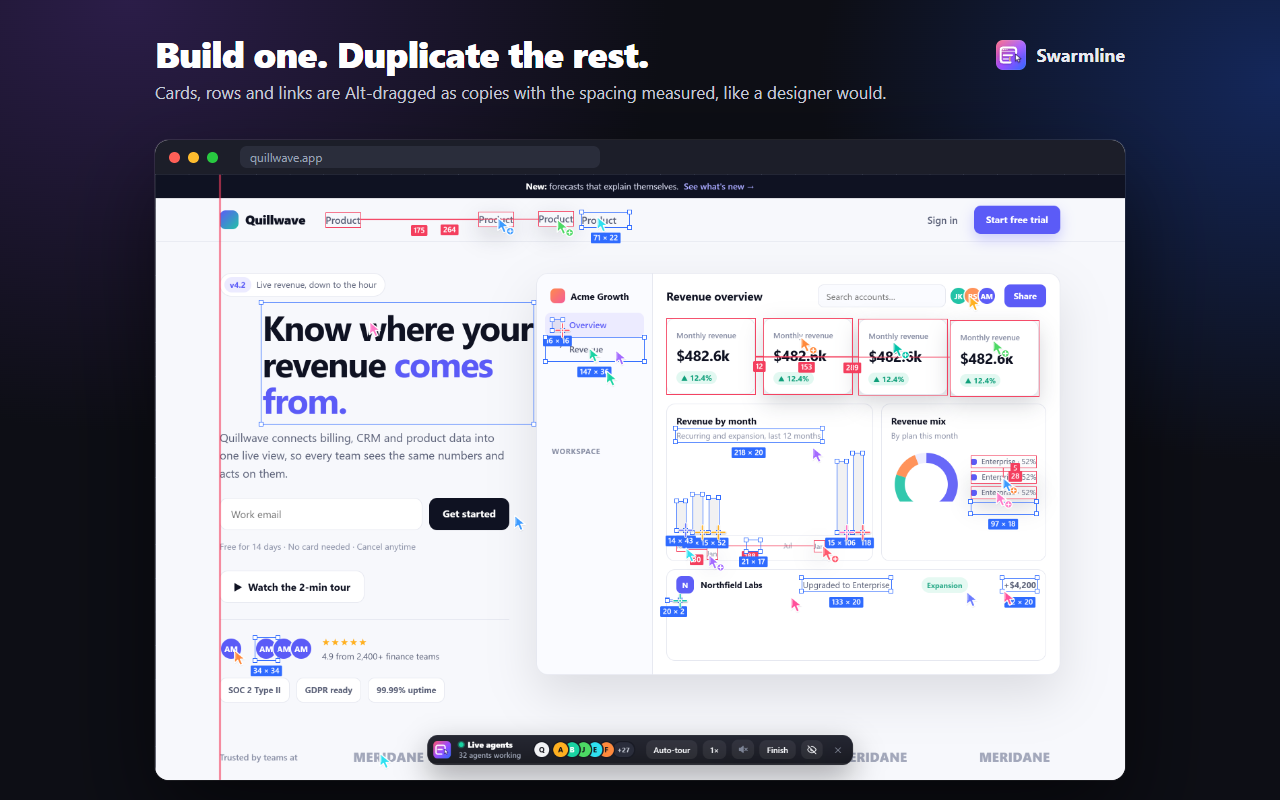
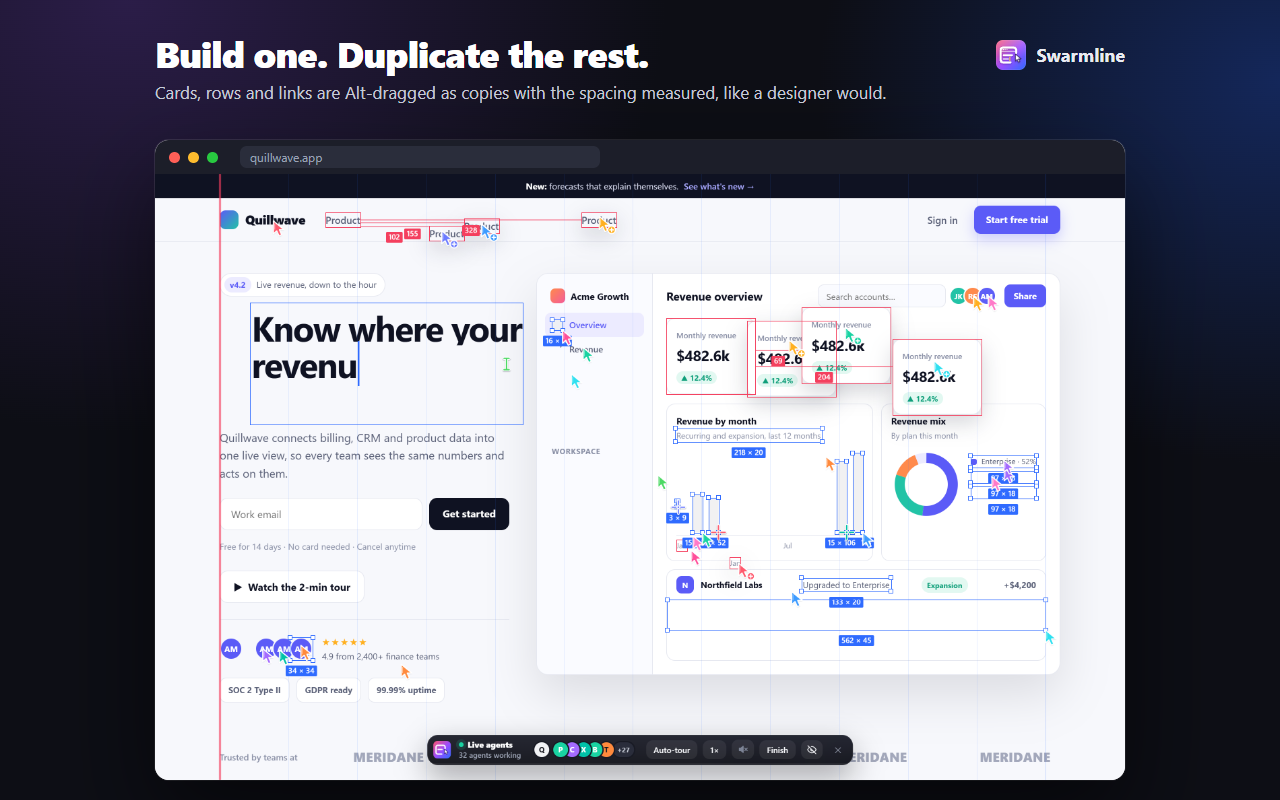
Detailing: letter-by-letter typing, layout grid, image placeholders, calmer pace
Compared side by side with Swarm Rebuild on cenovabuild.com:
- Typing runs on its own steady clock and is slower for large type, so every
  letter of a headline is seen (it was ~0.16 s for "Build Better.").
- Display headlines are typed at full size; only some mid-size headings grow.
- Loose text is duplicated only as short items in a row (nav links); headings,
  sentences and stacked lines are typed instead of copied.
- A faint 12-column layout grid over the content of the screen being built.
- Image frames show a placeholder with a picture icon (see-through when large).
- A lower tempo and fewer agents at once per screen (cenovabuild 64 s -> 86 s).

diff --git a/extension/swarmline.js b/extension/swarmline.js
@@ -1316,8 +1316,10 @@ canvas.off{pointer-events:none}
         for (const c of P.children) {
           const us = unitsIn.get(c);
           if (!us || !us.length || this.roleOf.has(c)) continue;
-          // a single long paragraph reads better typed than duplicated
-          if (us.length === 1 && us[0].kind === "text" && c.textContent.trim().length > 40) continue;
+          // a lone line of text is typed, not duplicated, unless it's a short item in a row
+          // (nav links, tags): headings, sentences and stacked lines are typed letter by letter
+          const lone = us.length === 1 && us[0].kind === "text";
+          if (lone && (c.textContent.trim().length > 24 || (us[0].fs || 16) >= 22)) continue;
           const r = c.getBoundingClientRect();
           if (r.width < 14 || r.height < 12 || r.height > v.h * 0.8 || r.width > v.w * 0.96) continue;
           if (getComputedStyle(c).translate !== "none") continue;
@@ -1336,13 +1338,15 @@ canvas.off{pointer-events:none}
           if (!g) {
             if (found.length < 2) continue;
             const m = found[0];
-            g = { master: m.c, masterUnits: m.us, mw: m.r.width, mh: m.r.height, copies: [], loose: m.loose };
+            if (m.loose && !found.slice(1).some((k) => Math.abs(k.r.top - m.r.top) < 6)) continue; // a column of lines: typed
+            g = { master: m.c, masterUnits: m.us, mw: m.r.width, mh: m.r.height, mTop: m.r.top, copies: [], loose: m.loose };
             known.set(sig, g);
             this.roleOf.set(m.c, "master");
             rest = found.slice(1);
           }
           for (const k of rest) {
             if (ratio(k.r.height, g.mh) >= 1.8 || (!g.loose && ratio(k.r.width, g.mw) >= 1.6)) continue;
+            if (g.loose && Math.abs(k.r.top - g.mTop) > 6) continue;
             if (k.us.some((u) => u.state !== 0)) continue;
             this.makeDup(g, k, v, top);
           }
@@ -1834,6 +1838,7 @@ canvas.off{pointer-events:none}
       }
 
       this.stepReveals(dt);
+      this.stepGrid(dt, top, v);
       if (this.jump) {
         const J = this.jump;
         J.t += dt;
@@ -1867,7 +1872,7 @@ canvas.off{pointer-events:none}
         if (y + w.h > v.y) avail++;
       }
       this.avail = avail;
-      const slots = Math.min(this.nibs.length, 8 + Math.floor(avail / 2) + Math.floor(this.speedPx / 40));
+      const slots = Math.min(this.nibs.length, 5 + Math.floor(avail / 4) + Math.floor(this.speedPx / 40));
       let busy = 0;
       for (const u of this.active) if (!(u.kind === "box" && u.phase >= 1)) busy++;
       let started = 0;
@@ -1928,7 +1933,9 @@ canvas.off{pointer-events:none}
           if (u.kind === "text") {
             u.edit = !!u.inCopy && !!u.inCopy.src && !u.dupSame; // only a real copy is edited
             u.jx = rand(-5, 5);
-            u.grow = !u.edit && u.mode !== "fade" && u.fs >= 28 && u.h < 400;
+            // big display type is typed at full size, letter by letter; now and then a mid-size
+            // heading is typed small and then scaled up into place
+            u.grow = !u.edit && u.mode !== "fade" && u.fs >= 28 && u.fs < 48 && u.h < 400 && Math.random() < 0.3;
           }
           if (u.kind === "dup") {
             const S = u.src.getBoundingClientRect();
@@ -2216,10 +2223,13 @@ canvas.off{pointer-events:none}
         return;
       }
       if (u.step === 3) {
-        // an uneven human rhythm, quicker on long passages
+        // an uneven human rhythm, quicker on long passages; on its own clock (not the swarm's
+        // tempo), and big type slow enough to watch every letter arrive
         const N = u.total;
-        const k = clamp(70 / Math.max(1, N), 0.06, 1);
-        u.budget = (u.budget || 0) + T;
+        const fsz = u.fs || 16;
+        const size = fsz >= 34 ? 3.2 : fsz >= 24 ? 2.2 : fsz >= 18 ? 1.4 : 1;
+        const k = clamp(70 / Math.max(1, N), 0.06, 1) * size;
+        u.budget = (u.budget || 0) + dt * this.speed * 1.9;
         let i = Math.floor(u.typed);
         const i0 = i;
         while (i < N && u.budget > 0) {
@@ -2852,7 +2862,7 @@ canvas.off{pointer-events:none}
       for (const n of this.nibs) n.vis = this.time < n.born ? 0 : Math.min(1, n.vis + dt / 0.3);
       const here = this.present();
       // the swarm works faster when there's a lot to do or the reader is moving
-      this.tempo = clamp(2.1 + this.speedPx / 900 + (this.avail / Math.max(1, here.length)) * 0.5, 2.1, 4.5) * this.speed;
+      this.tempo = clamp(1.4 + this.speedPx / 900 + (this.avail / Math.max(1, here.length)) * 0.35, 1.4, 3) * this.speed;
 
       // before the build and after it: everyone orbits (after: around your pointer)
       if (this.intro < 1 || this.outro) {
@@ -2877,7 +2887,7 @@ canvas.off{pointer-events:none}
       // bring in more hands when work piles up
       this.spawnT -= dt;
       const busy = here.filter((n) => n.unit).length;
-      const want = clamp(8 + Math.floor(this.speedPx / 40) + Math.floor(this.avail / 2), 8, this.nibs.length);
+      const want = clamp(7 + Math.floor(this.speedPx / 40) + Math.floor(this.avail / 3), 7, this.nibs.length);
       if (here.length < want && this.avail > here.length - busy && this.spawnT <= 0) {
         const out = this.nibs.find((n) => n.away);
         if (out) {
@@ -3105,6 +3115,7 @@ canvas.off{pointer-events:none}
         const R = rects.get(u);
         if (R) this.mark(g, u, R);
       }
+      this.drawGrid(g, v);
       this.drawGuides(g, v, top);
       this.drawRulers(g, v, top);
       const sheetA = this.intro < 1 ? clamp((this.intro - 0.3) / 0.5, 0, 1) : 1;
@@ -3357,9 +3368,12 @@ canvas.off{pointer-events:none}
         if (u.phase === 0) {
           // the shape being drawn, before the real one fills in
           g.save();
-          g.fillStyle = this.dark ? "rgba(255,255,255,0.08)" : "rgba(20,24,40,0.06)";
-          g.fillRect(x, y, dw, dh);
-          if (u.kind === "media" && u.step >= 3 && w > 28 && h > 28) this.cross(g, x, y, w, h, 0.3);
+          // a big background frame stays see-through, so what is already built on top still shows
+          if (u.kind === "media" && u.step >= 3) this.placeholder(g, x, y, w, h, w * h > this.W * this.H * 0.12 ? 0.4 : 0.94);
+          else {
+            g.fillStyle = this.dark ? "rgba(255,255,255,0.08)" : "rgba(20,24,40,0.06)";
+            g.fillRect(x, y, dw, dh);
+          }
           g.restore();
         }
         this.sel(g, x, y, dw, dh, INK, true, true);
@@ -3432,18 +3446,96 @@ canvas.off{pointer-events:none}
       this.badge(g, String(gap), horiz ? (p0[0] + p1[0]) / 2 : p0[0] + 18, horiz ? p0[1] + 8 : (p0[1] + p1[1]) / 2 - 9, MEASURE);
     }
 
-    // an image placeholder's diagonals
-    cross(g, x, y, w, h, a) {
+    // an image placeholder: a light frame with a small picture icon in the middle
+    placeholder(g, x, y, w, h, a) {
       g.save();
       g.globalAlpha = a;
-      g.strokeStyle = INK;
+      g.fillStyle = this.dark ? "#F4F4F1" : "#EEF0F4";
+      g.fillRect(x, y, w, h);
+      if (w > 40 && h > 32) {
+        const s = clamp(Math.min(w, h) * 0.14, 12, 22);
+        const cx = x + w / 2;
+        const cy = y + h / 2;
+        const r = s * 0.14;
+        g.strokeStyle = "#A3A8B6";
+        g.fillStyle = "#A3A8B6";
+        g.lineWidth = Math.max(1.2, s / 12);
+        g.lineJoin = "round";
+        this.roundPath(g, cx - s / 2, cy - s * 0.4, s, s * 0.8, [r, r, r, r]);
+        g.stroke();
+        g.beginPath(); // the hills
+        g.moveTo(cx - s * 0.38, cy + s * 0.28);
+        g.lineTo(cx - s * 0.1, cy - s * 0.04);
+        g.lineTo(cx + s * 0.1, cy + s * 0.14);
+        g.lineTo(cx + s * 0.22, cy + s * 0.04);
+        g.lineTo(cx + s * 0.38, cy + s * 0.28);
+        g.stroke();
+        g.beginPath(); // the sun
+        g.arc(cx + s * 0.18, cy - s * 0.17, s * 0.07, 0, TAU);
+        g.fill();
+      }
+      g.restore();
+    }
+
+    // The layout grid of the screen being built: the content area found from the pieces on
+    // screen, split into twelve columns, fading in while there's work and out when it's done.
+    stepGrid(dt, top, v) {
+      const G = this.grid || (this.grid = { a: 0, l: 0, r: 0, tl: 0, tr: 0, t: 0, work: 0, ok: false });
+      G.t -= dt;
+      if (G.t <= 0) {
+        G.t = 0.5;
+        const ls = [];
+        const rs = [];
+        let work = 0;
+        for (const u of this.units) {
+          if (u.fixed || u.kind === "guide" || u.kind === "dup" || !u.w || u.w >= v.w * 0.9 || u.w < 8) continue;
+          if (u.y > top + v.h || u.y + u.h < top) continue;
+          ls.push(u.left0);
+          rs.push(u.left0 + u.w);
+          if (u.state !== 2) work++;
+        }
+        G.work = work;
+        if (ls.length >= 6) {
+          ls.sort((a, b) => a - b);
+          rs.sort((a, b) => a - b);
+          const l = ls[Math.floor(ls.length * 0.08)] - v.x;
+          const r = rs[Math.ceil(rs.length * 0.92) - 1] - v.x;
+          if (r - l > v.w * 0.35) {
+            if (!G.ok) {
+              G.l = l;
+              G.r = r;
+            }
+            G.tl = l;
+            G.tr = r;
+            G.ok = true;
+          }
+        }
+      }
+      if (G.ok) {
+        const k = 1 - Math.exp(-dt * 3);
+        G.l += (G.tl - G.l) * k;
+        G.r += (G.tr - G.r) * k;
+      }
+      const want = G.ok && G.work > 2 && !this.outro && this.intro >= 1 ? 1 : 0;
+      G.a += (want - G.a) * (1 - Math.exp(-dt * (want ? 2.5 : 1.6)));
+    }
+    drawGrid(g, v) {
+      const G = this.grid;
+      if (!G || !G.ok || G.a < 0.02) return;
+      const cols = 12;
+      const w = (G.r - G.l) / cols;
+      const ink = this.dark ? "255,255,255" : "47,107,255";
+      g.save();
       g.lineWidth = 1;
-      g.beginPath();
-      g.moveTo(x, y);
-      g.lineTo(x + w, y + h);
-      g.moveTo(x + w, y);
-      g.lineTo(x, y + h);
-      g.stroke();
+      for (let i = 0; i <= cols; i++) {
+        const x = Math.round(v.x + G.l + w * i) + 0.5;
+        const edge = i === 0 || i === cols;
+        g.strokeStyle = "rgba(" + ink + "," + ((edge ? (this.dark ? 0.3 : 0.24) : this.dark ? 0.13 : 0.11) * G.a).toFixed(3) + ")";
+        g.beginPath();
+        g.moveTo(x, v.y);
+        g.lineTo(x, v.y + v.h);
+        g.stroke();
+      }
       g.restore();
     }
 

diff --git a/README.md b/README.md
@@ -4,7 +4,7 @@
 
 ![Swarmline building a page](store/marquee-1400x560.png)
 
-Swarmline is a Chrome extension. Click it on any page and the page becomes a blank canvas in its own colours. A swarm of cursors then builds it back in reading order, the way designers work in a design tool: a crosshair drags out each box (with handles and a live size badge) before the real one fills in; text boxes are dragged out and typed beside a parked I-beam, and big headings grow into size; dividers are drawn with the pen tool; rulers slide in while red alignment guides are pulled out, and text is dragged onto them until it snaps; image frames are dragged out and the picture scans in. Repeated components (cards in a grid, rows in a list, nav links, tabs, tags, icons) are built once, then Alt-dragged as copies with the gap measured; each copy lands showing the original's words, which are double-clicked, selected and retyped, and a different image or colour is swapped in with a click. Spare cursors wander, slip off-screen when they're not needed and come back when work appears, and when the page is done they orbit your own mouse pointer until you exit. Builds have a soft mallet soundtrack (M turns it off).
+Swarmline is a Chrome extension. Click it on any page and the page becomes a blank canvas in its own colours. A swarm of cursors then builds it back in reading order, the way designers work in a design tool: a crosshair drags out each box (with handles and a live size badge) before the real one fills in; text boxes are dragged out and typed letter by letter beside a parked I-beam (display headlines at full size, some mid-size headings growing into size); a faint 12-column layout grid shows over each section as it is built; dividers are drawn with the pen tool; rulers slide in while red alignment guides are pulled out, and text is dragged onto them until it snaps; image frames are dragged out as placeholders with a picture icon and the picture scans in. Repeated components (cards in a grid, rows in a list, nav links, tabs, tags, icons) are built once, then Alt-dragged as copies with the gap measured; each copy lands showing the original's words, which are double-clicked, selected and retyped, and a different image or colour is swapped in with a click. Spare cursors wander, slip off-screen when they're not needed and come back when work appears, and when the page is done they orbit your own mouse pointer until you exit. Builds have a soft mallet soundtrack (M turns it off).
 
 **Credits.** Swarmline's cursor motion and build style follow **Swarm Rebuild** by **Dhvanil Patel** ([swarm-cursors](https://github.com/DhvanilPatel/swarm-cursors)), a tribute to **[Swarm](https://califa.github.io/swarm-site/)** by **[Joel Califa](https://joelcalifa.com)**. Those parts are adapted with permission; see [NOTICE.md](NOTICE.md).
 
@@ -41,7 +41,7 @@ Turn the tour off to scroll yourself: the swarm builds whatever comes to rest on
 
 1. **Blank canvas.** The page fades to its own background colour. A small stylesheet hides every element (`visibility: hidden`, so the layout never moves) except the ones the swarm has put back, which carry a marker attribute. The page keeps running underneath.
 2. **Scan.** When the page comes to rest, the visible part of the DOM (including open shadow roots) is read into *units*: boxes (anything that paints a background, border or shadow), text blocks (their real line boxes and letter positions), media, form controls and icon glyphs. Repeated siblings (cards, rows, links, icons) are grouped for duplicating, and text that lines up gets an alignment guide.
-3. **Build.** Each unit is made by one cursor, step by step, at a tempo that rises with the backlog: boxes are dragged out with a crosshair, text is typed by clipping the real element to the letters written so far (`clip-path: path(…)`), dividers are drawn with the pen tool, image frames are dragged out and the picture scans in. Guides are pulled from the rulers and text is dragged onto them until it snaps. Copies of a finished component are Alt-dragged into place as a look-alike, then the real copy takes over and whatever differs is selected and retyped or swapped. A child waits for the box it sits in.
+3. **Build.** Each unit is made by one cursor, step by step, at a tempo that rises with the backlog: boxes are dragged out with a crosshair, text is typed by clipping the real element to the letters written so far (`clip-path: path(…)`), dividers are drawn with the pen tool, image frames are dragged out as placeholders and the picture scans in. Typing runs on its own steady clock, slower for large type, so every letter can be read; a 12-column layout grid is drawn over the content of the screen being built. Guides are pulled from the rulers and text is dragged onto them until it snaps. Copies of a finished component are Alt-dragged into place as a look-alike, then the real copy takes over and whatever differs is selected and retyped or swapped. A child waits for the box it sits in.
 4. **Settle.** Once a stretch of the page is built, anything still hidden there (wrapper backgrounds, decoration) fades in gently, top to bottom.
 5. **Tour and finish.** Auto-tour never stops and starts. It reads the page a couple of screens ahead and keeps the camera moving: it creeps while there's work on screen, never leaves an unfinished piece behind, and speeds up once a section is done. Scroll the wheel yourself and it waits a moment, then carries on from where you are. At the end the stylesheet and markers are removed, the page is fully interactive again, the swarm orbits your mouse pointer, and the toolbar offers **Replay**.
 

diff --git a/store/LISTING.md b/store/LISTING.md
@@ -28,10 +28,10 @@ One click and any website becomes a blank canvas. Then a swarm of cursors builds
 
 How the swarm builds a page:
 • Every box, card and section is dragged out with a crosshair, with a live size readout and selection handles, then fills in for real
-• Text boxes are dragged out and typed letter by letter; big headlines start small and grow into size
-• Rulers slide in, red alignment guides are pulled out, and text is nudged onto them until it snaps
+• Text boxes are dragged out and typed letter by letter beside a parked I-beam, big headlines included; some headings start small and grow into size
+• A faint 12-column layout grid appears over each section as it is built; rulers slide in, red alignment guides are pulled out, and text is nudged onto them until it snaps
 • Dividers are drawn with the pen tool, click by click
-• Image frames are dragged out, then the picture scans into place
+• Image frames are dragged out as placeholders with a picture icon, then the picture scans into place
 • Repeated parts are built once and then duplicated: cards, list rows, nav links and icons are Alt-dragged as copies with the spacing measured, and each copy is edited, its words selected and retyped, a different image or colour swapped in
 • When the page is done it's fully live again, and the swarm follows your own mouse pointer until you exit
 
